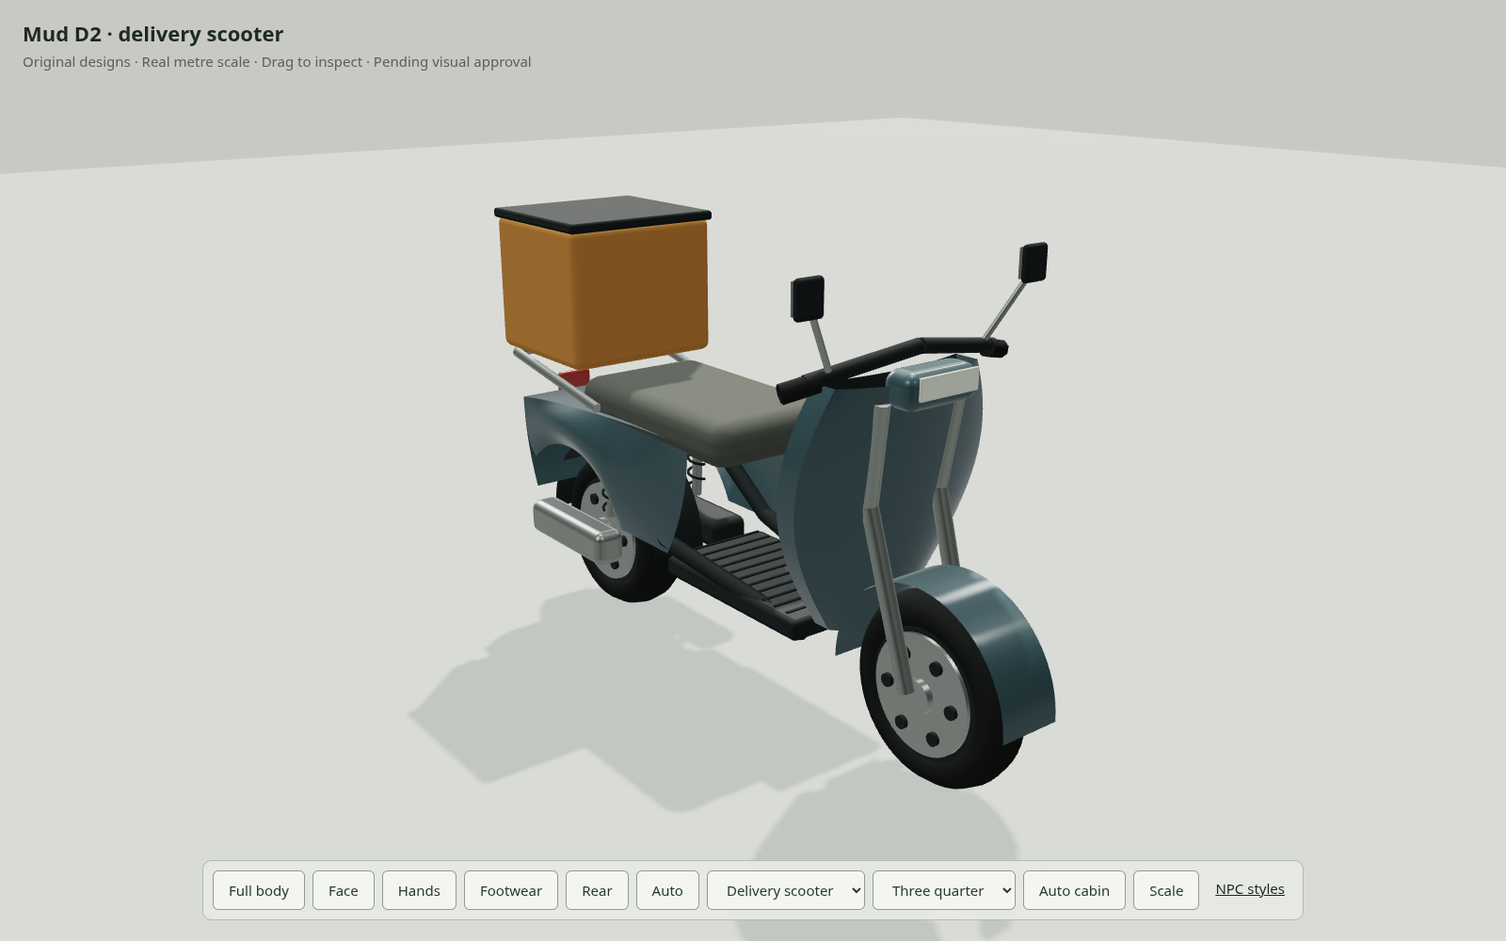
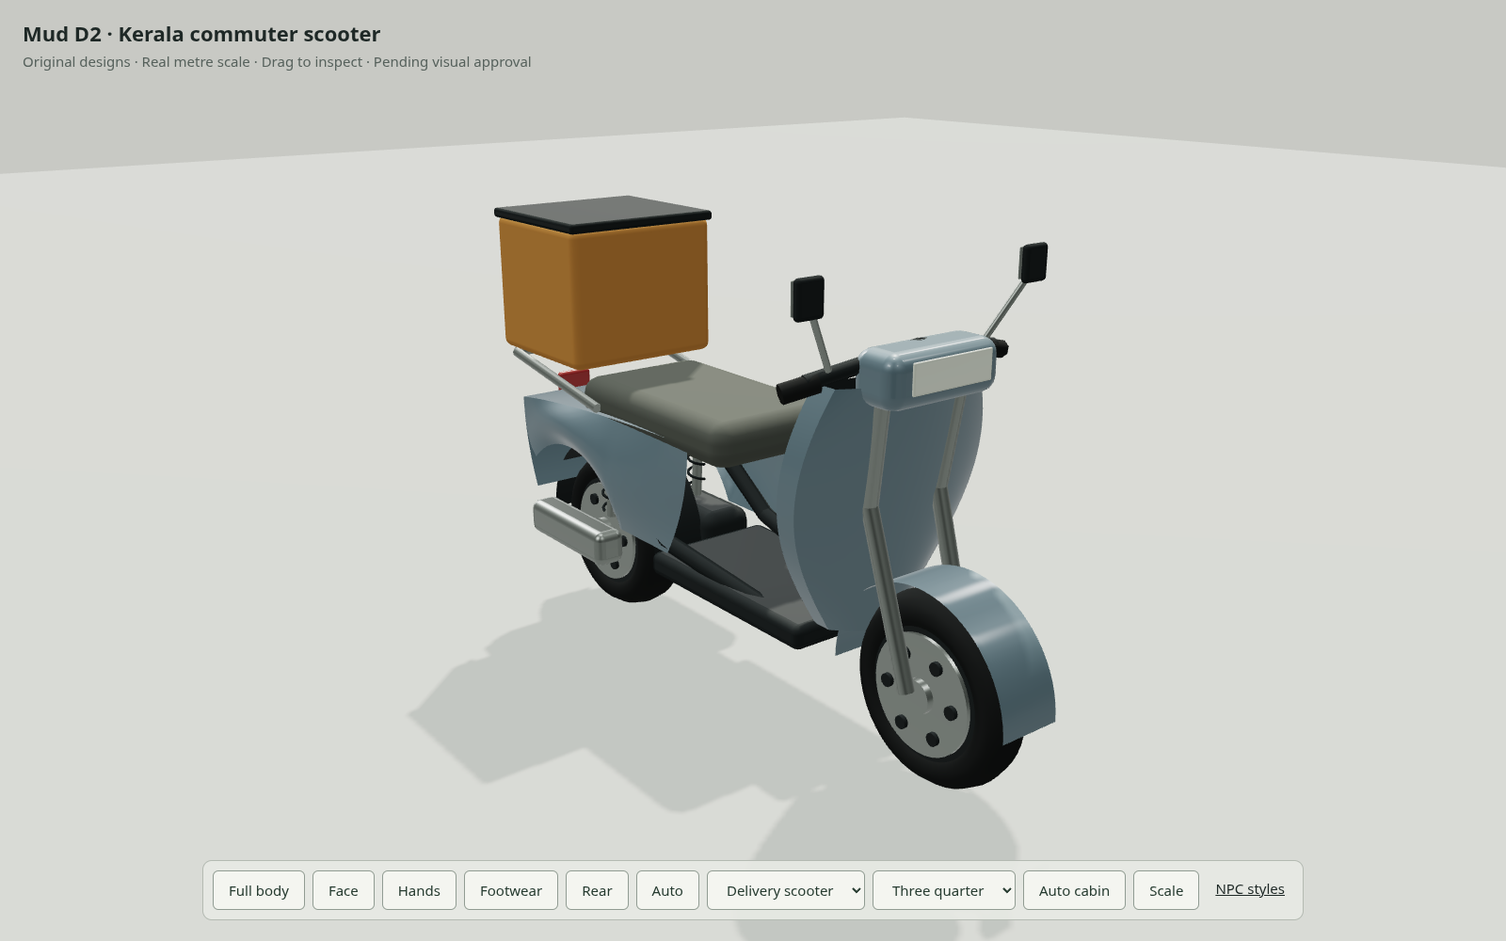
Adapt review fleet to Kerala hatchback van bus auto and scooter types

Changed region(s): [[0.3438, 0.341, 0.7188, 0.806], [0.0938, 0.031, 0.25, 0.062]]

diff --git a/src/prototypes/vehicles.js b/src/prototypes/vehicles.js
@@ -8,7 +8,7 @@ function kit(name,color){
  const trim=new THREE.MeshStandardMaterial({color:'#252c2c',roughness:.72,metalness:.15});
  const rubber=new THREE.MeshStandardMaterial({color:'#202322',roughness:.94});
  const alloy=new THREE.MeshStandardMaterial({color:'#9ba29c',roughness:.28,metalness:.85});
- const glass=new THREE.MeshPhysicalMaterial({color:'#718982',roughness:.07,metalness:0,transparent:true,opacity:.28,depthWrite:false,side:THREE.DoubleSide,envMapIntensity:1.3});
+ const glass=new THREE.MeshPhysicalMaterial({color:'#718982',roughness:.07,metalness:0,transparent:true,opacity:.43,depthWrite:false,side:THREE.DoubleSide,envMapIntensity:1.3});
  const seat=new THREE.MeshStandardMaterial({color:'#535750',roughness:.93});seat.userData.surface='cloth';
  const red=new THREE.MeshPhysicalMaterial({color:'#9b3028',roughness:.23,clearcoat:.6});
  const lamp=new THREE.MeshPhysicalMaterial({color:'#d3dacb',roughness:.18,metalness:.25,clearcoat:.6});
@@ -33,73 +33,83 @@ function kit(name,color){
   return axle;
  }
  function cushion(x,y,z,w=.43){box(w,.12,.43,.035,seat,[x,y,z]);box(w,.48,.09,.035,seat,[x,y+.27,z+.17],[.10,0,0]);for(const dx of[-w*.25,w*.25])tube([[x+dx,y+.065,z-.16],[x+dx,y+.065,z+.16]],.0015,trim);}
- function badge(text,w,h,p,rotation=[0,Math.PI,0],background=null){if(typeof document==='undefined')return;const c=document.createElement('canvas');c.width=1024;c.height=256;const ctx=c.getContext('2d');if(background){ctx.fillStyle=background;ctx.fillRect(0,0,1024,256);}ctx.fillStyle=background?'#f1e9d1':'#cbd3c9';ctx.font='600 135px sans-serif';const fontSize=Math.min(135,135*900/ctx.measureText(text).width);ctx.font=`600 ${fontSize}px sans-serif`;ctx.textAlign='center';ctx.fillText(text,512,178);const map=new THREE.CanvasTexture(c);map.colorSpace=THREE.SRGBColorSpace;const m=new THREE.MeshStandardMaterial({map,transparent:true,depthWrite:false,roughness:.8});add(new THREE.PlaneGeometry(w,h),m,p,rotation).name='Original game branding';}
+ function badge(text,w,h,p,rotation=[0,Math.PI,0],background=null){if(typeof document==='undefined')return;const c=document.createElement('canvas');c.width=1024;c.height=256;const ctx=c.getContext('2d');if(background){ctx.fillStyle=background;ctx.fillRect(0,0,1024,256);}ctx.fillStyle=background?'#f1e9d1':'#29332e';ctx.font='600 135px sans-serif';const fontSize=Math.min(135,135*900/ctx.measureText(text).width);ctx.font=`600 ${fontSize}px sans-serif`;ctx.textAlign='center';ctx.fillText(text,512,178);const map=new THREE.CanvasTexture(c);map.colorSpace=THREE.SRGBColorSpace;const m=new THREE.MeshStandardMaterial({map,transparent:true,depthWrite:false,roughness:.8});add(new THREE.PlaneGeometry(w,h),m,p,rotation).name='Original game branding';}
  return {root,paint,trim,rubber,alloy,glass,seat,red,lamp,add,box,tube,surface,pane,wheel,cushion,badge};
 }
 
 function fourWheeler(type){
  const bus=type==='bus',van=type==='van';
- const k=kit(bus?'Mud M9 · local bus':van?'Mud V4 · crew van':'Mud C4 · compact car',bus?'#803c36':van?'#d8d1ba':'#496f75');
- const {root,paint,trim,rubber,alloy,glass,red,lamp,box,tube,surface,pane,wheel,cushion,badge}=k;
- const length=bus?9.70:van?4.45:4.05,width=bus?2.5:van?1.78:1.72,height=bus?3.1:van?2.03:1.5;
- const half=length/2,r=bus?.48:van?.31:.29,axles=bus?[-2.98,2.62]:van?[-1.42,1.38]:[-1.24,1.22],waist=bus?1.68:van?1.18:.84,base=bus?.49:.265;
- const bodyWidth=z=>width/2*(bus?1-.035*(Math.abs(z)/half)**8:van?1-.08*(Math.abs(z)/half)**8:1-.21*(Math.abs(z)/half)**6);
- const deckHeight=z=>bus||van?waist:z<-.77?waist-.08*((-.77-z)/(half-.77))**2:z>1.31?waist-.055*(z-1.31)/(half-1.31):waist;
+ const k=kit(bus?'Mud M9 · local bus':van?'Mud V4 · Kerala passenger van':'Mud C4 · Kerala hatchback',bus?'#d8cfac':van?'#e4e2d6':'#b4c5cb');
+ const {root,paint,trim,rubber,alloy,glass,seat,red,lamp,box,tube,surface,pane,wheel,cushion,badge}=k;
+ const length=bus?9.70:van?3.78:3.65,width=bus?2.5:van?1.60:1.62,height=bus?3.1:van?1.87:1.54;
+ const half=length/2,r=bus?.48:van?.31:.29,axles=bus?[-2.98,2.62]:van?[-1.12,1.12]:[-1.16,1.15],waist=bus?1.68:van?1.04:.91,base=bus?.49:.265;
+ const bodyWidth=z=>width/2*(bus?1-.035*(Math.abs(z)/half)**8:van?1-.08*(Math.abs(z)/half)**8:1-(z<0?.12:.06)*(Math.abs(z)/half)**6);
+ const deckHeight=z=>bus||van?waist:z<-.85?waist-.15*((-.85-z)/(half-.85))**2:z>1.20?waist+.10*(z-1.20)/(half-1.20):waist;
+ const busSkirt=new THREE.MeshPhysicalMaterial({color:'#85382f',roughness:.5,metalness:.12,side:THREE.DoubleSide});
  function archLow(z){let low=base;for(const axle of axles){const d=z-axle,clearance=r+.045;if(Math.abs(d)<clearance)low=Math.max(low,r+.015+Math.sqrt(clearance**2-d*d));}return low;}
  for(const side of[-1,1]){
-  surface(12,bus?240:120,(u,v)=>{const z=-half+u*length,low=archLow(z);return[side*(bodyWidth(z)-.05*(1-v)+.014*Math.sin(v*Math.PI)),low+(deckHeight(z)-(!bus&&!van?.025:0)-low)*v,z];},paint,(u)=>!(bus&&side===-1&&(-half+u*length)>-4.45&&(-half+u*length)<-3.65));
+  const sidePoint=(u,v)=>{const z=-half+u*length,low=archLow(z);return[side*(bodyWidth(z)-.05*(1-v)+.014*Math.sin(v*Math.PI)),low+(deckHeight(z)-(!bus&&!van?.025:0)-low)*v,z];};
+  const hasSide=u=>!(bus&&side===-1&&(-half+u*length)>-4.45&&(-half+u*length)<-3.65);
+  surface(12,bus?240:120,sidePoint,paint,(u,v)=>hasSide(u)&&(!bus||v>=.4));
+  if(bus)surface(12,240,sidePoint,busSkirt,(u,v)=>hasSide(u)&&v<.4);
   for(const z of axles){wheel(side*(width/2-.115),z,r,bus?.24:.18);const path=Array.from({length:29},(_,i)=>{const a=i/28*Math.PI;return[side*(bodyWidth(z)+.006),r+.015+(r+.045)*Math.sin(a),z+(r+.045)*Math.cos(a)];});tube(path,.010,bus?trim:paint);}
   tube([[side*(width/2-.04),base+.03,-half+.3],[side*(width/2-.04),base+.03,half-.3]],.023,trim);
  }
  // Formed bumper faces close only the lower body, leaving the windows genuinely open.
  for(const end of[-1,1]){
-  surface(12,40,(u,v)=>{const t=u*2-1;return[t*(bodyWidth(half)-.05*(1-v)+.014*Math.sin(v*Math.PI)),base+v*(deckHeight(end*half)-(!bus&&!van?.025*t*t:0)-base),end*half];},paint);
+  const endPoint=(u,v)=>{const t=u*2-1;return[t*(bodyWidth(half)-.05*(1-v)+.014*Math.sin(v*Math.PI)),base+v*(deckHeight(end*half)-(!bus&&!van?.025*t*t:0)-base),end*half];};
+  surface(12,40,endPoint,paint,(_,v)=>!bus||v>=.4);
+  if(bus)surface(12,40,endPoint,busSkirt,(_,v)=>v<.4);
   box(width*.88,.085,.06,.025,trim,[0,base+.12,end*(half+.014)]);
  }
  box(width*.87,.05,length-.35,.012,trim,[0,base+.03,0]);
  if(!bus&&!van){
-  // A lofted bonnet, separate roof and cut glazing avoid an opaque blob behind the glass.
-  surface(18,40,(u,v)=>{const z=-half+v*(half-.77),t=u*2-1;return[t*bodyWidth(z),waist-.025*t*t-.08*(1-v)**2,z];},paint);
-  surface(16,40,(u,v)=>{const z=1.31+v*(half-1.31),t=u*2-1;return[t*bodyWidth(z),waist-.025*t*t-.055*v,z];},paint);
-  surface(22,40,(u,v)=>{const t=u*2-1,z=-.26+v*1.10;return[t*.66,1.40+.10*(1-t*t)-.012*Math.sin(v*Math.PI),z];},paint);
-  surface(16,40,(u,v)=>{const t=u*2-1;return[t*(.797-v*.14),.85+v*(.65-.10*t*t)-.025*(1-v)*t*t,-.77+v*.51+.022*t*t];},glass);
-  surface(16,40,(u,v)=>{const t=u*2-1;return[t*(.789-v*.13),.85+v*(.65-.10*t*t)-.025*(1-v)*t*t,1.31-v*.47-.014*t*t];},glass);
-  for(const z of[-.26,.84])tube(Array.from({length:25},(_,i)=>{const t=i/12-1;return[t*.66,1.40+.10*(1-t*t),z];}),.014,paint);
+  // Short bonnet and an upright tailgate: a small Kerala-road hatchback, not a sedan.
+  surface(20,40,(u,v)=>{const z=-half+v*(half-.85),t=u*2-1;return[t*bodyWidth(z),deckHeight(z)-.025*t*t,z];},paint);
+  const roofPoint=(u,v)=>{const t=u*2-1;return[t*.665,1.44+.10*(1-t*t)-.012*Math.sin(v*Math.PI),-.30+v*1.43];};
+  surface(24,40,roofPoint,paint);
+  surface(20,40,(u,v)=>{const t=u*2-1;return[t*(bodyWidth(-.85)*(1-v)+.665*v),.92+v*(.62-.10*t*t)-.025*(1-v)*t*t,-.85+v*.55];},glass);
+  surface(22,40,(u,v)=>{const t=u*2-1;return[t*(.665*(1-v)+bodyWidth(half)*v),1.44+.10*(1-t*t)-v*(.43+.10*(1-t*t)+.025*t*t),1.13+v*(half-1.13)];},glass);
+  for(const v of[0,1])tube(Array.from({length:25},(_,i)=>roofPoint(i/24,v)),.022,paint);
   for(const side of[-1,1]){
-   const lower=z=>[side*bodyWidth(z),.852,z],upper=z=>[side*.66,1.398,z];
-   pane([lower(-.75),lower(.28),upper(.28),upper(-.255)]);
-   pane([lower(.35),lower(1.29),upper(.832),upper(.35)]);
-   for(const points of [[lower(-.77),upper(-.26)],[lower(1.31),upper(.84)]])tube(points,.023,paint);
-   tube([lower(.315),upper(.315)],.022,trim);
-   tube([upper(-.26),upper(.84)],.018,paint);
-   for(const z of[-.77,.315,1.30])tube([[side*(bodyWidth(z)+.001),.81,z],[side*(bodyWidth(z)-.025),.32,z]],.003,trim);
-   for(const z of[.10,1.06])box(.020,.026,.12,.009,alloy,[side*(bodyWidth(z)+.012),.75,z]);
-   tube([[side*.80,1.0,-.61],[side*.93,1.0,-.62]],.015,trim);box(.15,.10,.18,.035,paint,[side*.945,1.015,-.64]);box(.008,.075,.135,.022,alloy,[side*1.024,1.016,-.625]);
-   for(const z of[-.02,.94])cushion(side*.34,.67,z,.45);
+   const lower=z=>[side*bodyWidth(z),deckHeight(z)-.023,z],upper=z=>[side*.665,1.438,z];
+   pane([lower(-.83),lower(.27),upper(.27),upper(-.295)]);
+   pane([lower(.35),lower(1.32),upper(1.08),upper(.35)]);
+   tube([lower(-.85),upper(-.30)],.031,paint);tube([lower(.31),upper(.31)],.030,trim);
+   tube([upper(-.30),upper(1.13)],.026,paint);
+   surface(20,8,(u,v)=>{const z=(1-v)*(1.08+.05*u)+v*(1.32+(half-1.32)*u);return[side*(.665*(1-v)+bodyWidth(z)*v),1.438*(1-v)+(deckHeight(z)-.023)*v,z];},paint);
+   for(const z of[-.85,.31,1.34])tube([[side*(bodyWidth(z)+.001),deckHeight(z)-.025,z],[side*(bodyWidth(z)-.025),.32,z]],.0025,trim);
+   for(const z of[.10,1.09])box(.020,.029,.11,.009,trim,[side*(bodyWidth(z)+.012),.83,z]);
+   tube([[side*.79,1.04,-.70],[side*.91,1.04,-.70]],.014,trim);box(.15,.095,.15,.032,paint,[side*.94,1.055,-.72]);box(.008,.066,.11,.020,alloy,[side*1.018,1.055,-.704]);
+   for(const z of[.10,.97]){cushion(side*.32,.65,z,.43);box(.28,.12,.06,.025,seat,[side*.32,1.23,z+.21]);}
+   tube([[side*(bodyWidth(-.90)+.005),.55,-.90],[side*(bodyWidth(.3)+.005),.55,.30],[side*(bodyWidth(1.47)+.005),.55,1.47]],.010,trim);
   }
-  box(1.31,.15,.24,.035,trim,[0,.90,-.54]);
-  const steering=k.add(new THREE.TorusGeometry(.13,.015,8,40),trim,[.35,.99,-.42],[.72,0,0]);steering.name='Right hand drive steering';
-  for(const side of[-1,1]){box(.32,.07,.022,.025,trim,[side*.52,.735,-half-.006],[0,-side*.24,0]);box(.27,.046,.015,.019,lamp,[side*.52,.736,-half-.022],[0,-side*.24,0]);box(.14,.18,.022,.024,red,[side*.66,.705,half-.016]);}
-  for(const y of[.45,.50,.55])box(.66,.012,.026,.003,trim,[0,y,-half-.012]);
-  badge('MUD / C4',.23,.057,[0,.65,-half-.014]);
+  box(1.26,.14,.24,.035,trim,[0,.95,-.66]);
+  k.add(new THREE.TorusGeometry(.13,.015,8,40),trim,[.34,1.035,-.51],[.72,0,0]);
+  for(const side of[-1,1]){box(.30,.15,.035,.042,trim,[side*.53,.665,-half-.010],[0,-side*.15,0]);box(.24,.105,.017,.031,lamp,[side*.53,.674,-half-.029],[0,-side*.15,0]);box(.13,.32,.024,.029,red,[side*.69,.92,half+.008]);}
+  box(.82,.12,.03,.026,trim,[0,.38,-half-.014]);for(const y of[.36,.40])box(.68,.007,.006,.001,alloy,[0,y,-half-.032]);
+  box(.32,.075,.011,.009,lamp,[0,.55,-half-.018]);badge('MUD / C4',.24,.058,[0,.83,-half-.013]);
+  tube([[0,1.03,half+.008],[.24,1.20,half-.17]],.006,trim);
  }else{
-  const top=bus?2.97:1.94,roofHalf=bus?1.17:.83,frontTop=bus?-half+.15:-1.75,frontBottom=bus?-half:-2.02;
-  const roofPaint=bus?new THREE.MeshStandardMaterial({color:'#ded3b9',roughness:.6,side:THREE.DoubleSide}):paint;
+  const top=bus?2.97:1.79,roofHalf=bus?1.17:.735,frontTop=bus?-half+.15:-1.53,frontBottom=bus?-half:-1.76;
+  const roofPaint=bus?busSkirt:paint;const windowTop=bus?2.72:1.64;
   surface(bus?60:32,40,(u,v)=>{const t=u*2-1,z=frontTop+v*(half-.06-frontTop);return[t*roofHalf,top+(height-top)*(1-t*t),z];},roofPaint);
-  surface(24,44,(u,v)=>{const t=u*2-1;return[t*((bodyWidth(frontBottom)-.006)*(1-v)+roofHalf*v),waist+v*(top-waist+(height-top)*(1-t*t)),frontBottom+v*(frontTop-frontBottom)+.015*t*t];},glass);
+  surface(24,44,(u,v)=>{const t=u*2-1;return[t*((bodyWidth(frontBottom)-.006)*(1-v)+roofHalf*v),waist+v*(top-waist+(height-top)*(1-t*t)),frontBottom+v*(frontTop-frontBottom)+.015*t*t];},glass,(_,v)=>v<(bus?.82:.84));
+  surface(24,44,(u,v)=>{const t=u*2-1;return[t*((bodyWidth(frontBottom)-.006)*(1-v)+roofHalf*v),waist+v*(top-waist+(height-top)*(1-t*t)),frontBottom+v*(frontTop-frontBottom)+.015*t*t];},roofPaint,(_,v)=>v>=(bus?.82:.84));
   surface(20,40,(u,v)=>{const t=u*2-1;return[t*((bodyWidth(half)-.006)*(1-v)+roofHalf*v),waist+v*(top-waist+(height-top)*(1-t*t)),half-.06];},glass);
   for(const side of[-1,1]){
-   const lower=z=>[side*(bodyWidth(z)-.006),waist,z],upper=z=>[side*roofHalf,top,z];
-   tube([lower(frontBottom),upper(frontTop)],.028,roofPaint);tube([lower(half-.03),upper(half-.06)],.029,roofPaint);
+   const lower=z=>[side*(bodyWidth(z)-.006),waist,z],upper=z=>[side*roofHalf,windowTop,z];
+   tube([lower(frontBottom),[side*roofHalf,top,frontTop]],.028,roofPaint);tube([lower(half-.03),upper(half-.06)],.029,roofPaint);
    tube([upper(frontTop),upper(half-.06)],.030,roofPaint);tube([lower(frontBottom),lower(half-.03)],.030,roofPaint);
-   const count=bus?10:3,start=bus?frontTop:-1.73,end=half-.07,step=(end-start)/count;
+   surface(8,80,(u,v)=>[side*roofHalf,windowTop+v*(top-windowTop),frontTop+u*(half-.06-frontTop)],roofPaint);
+   const count=bus?10:3,start=bus?frontTop:-1.51,end=half-.07,step=(end-start)/count;
    for(let i=0;i<count;i++){const a=start+i*step+.03,b=start+(i+1)*step-.03;pane([lower(a),lower(b),upper(b),upper(a)]);if(i)tube([lower(a-.03),upper(a-.03)],.027,roofPaint);}
    for(const z of axles)tube([[side*(width/2+.007),waist-.09,z-.33],[side*(width/2+.007),waist-.09,z+.33]],.004,trim);
    // India-style right-hand driver position; mirror arms remain outside the glazing.
    tube([[side*(width/2-.04),top-.15,frontTop+.17],[side*(width/2+.18),top-.15,frontTop-.10]],.017,trim);
    box(.09,bus?.33:.22,.17,.025,trim,[side*(width/2+.20),top-.15,frontTop-.11]);
    box(.011,bus?.28:.17,.125,.016,alloy,[side*(width/2+.25),top-.15,frontTop-.10]);
-   if(van){for(const z of[-.25,1.43])tube([[side*(bodyWidth(z)+.002),.36,z],[side*(bodyWidth(z)+.002),waist,z]],.003,trim);box(.018,.035,.14,.008,trim,[side*.90,1.05,.12]);tube([[side*.896,waist-.12,.08],[side*.896,waist-.12,1.90]],.010,trim);cushion(side*.38,.86,-1.03);cushion(side*.38,.85,.28);}
+   if(van){for(const z of[-.40,1.40])tube([[side*(bodyWidth(z)+.002),.36,z],[side*(bodyWidth(z)+.002),waist,z]],.003,trim);box(.018,.035,.14,.008,trim,[side*.81,.95,-.03]);tube([[side*.807,waist-.12,-.25],[side*.807,waist-.12,1.65]],.010,trim);cushion(side*.33,.79,-.88);cushion(side*.33,.78,.35);}
   }
   for(const end of[-1,1]){
    tube(Array.from({length:25},(_,i)=>{const t=i/12-1;return[t*roofHalf,top+(height-top)*(1-t*t),end===-1?frontTop:half-.06];}),.030,roofPaint);
@@ -113,19 +123,20 @@ function fourWheeler(type){
    for(let i=0;i<3;i++)box(.53,.075,.63,.012,trim,[-1.00,.40+i*.18,-4.05]);
    for(const z of[-3.30,3.42])tube([[.08,.92,z],[.08,2.84,z]],.017,alloy);
    for(const side of[-1,1]){box(.37,.21,.032,.025,trim,[side*.80,1.19,-half-.022]);for(const dx of[-.087,.087])box(.13,.09,.014,.014,lamp,[side*.80+dx,1.22,-half-.048]);box(.19,.27,.028,.025,red,[side*.98,1.18,half+.01]);}
-   box(1.46,.24,.03,.020,trim,[0,2.78,-half+.101]);badge('MARKET / CANAL',1.31,.15,[0,2.78,-half+.08]);
-   badge('MUD TRANSIT',1.16,.18,[0,1.46,-half-.008]);
-   for(const side of[-1,1])badge('MUD TRANSIT',2.05,.27,[side*(width/2+.02),1.38,.1],[0,side*Math.PI/2,0]);
+   box(1.46,.24,.03,.020,trim,[0,2.91,-half+.101]);badge('കൊച്ചി • ആലുവ',1.31,.15,[0,2.91,-half+.08],[0,Math.PI,0],'#192822');
+   badge('MUD LOCAL',1.16,.18,[0,1.46,-half-.008]);
+   for(const side of[-1,1])badge('മഡ് • ലോക്കൽ',2.05,.27,[side*(width/2+.02),1.38,.1],[0,side*Math.PI/2,0]);
    for(let i=0;i<9;i++)box(.70,.02,.012,.003,trim,[0,.93+i*.033,half+.028]);
   }else{
    // Small bonnet, cargo floor and twin rear doors distinguish it from the compact car.
-   surface(8,32,(u,v)=>{const z=-half+v*(half-2.02),t=u*2-1;return[t*bodyWidth(z),waist-.025*t*t,z];},paint);
-   box(1.55,.065,3.48,.012,trim,[0,.59,.30]);box(.48,.31,.46,.025,trim,[.43,.77,1.44]);
-   for(const side of[-1,1]){box(.22,.17,.023,.021,trim,[side*.61,1.005,-half-.01]);box(.16,.10,.014,.020,lamp,[side*.61,1.01,-half-.028]);box(.12,.35,.025,.024,red,[side*.73,1.14,half+.008]);}
+   surface(8,32,(u,v)=>{const z=-half+v*(half-1.76),t=u*2-1;return[t*bodyWidth(z),waist-.025*t*t,z];},paint);
+   box(1.40,.065,3.10,.012,trim,[0,.59,.30]);box(.48,.31,.46,.025,trim,[.36,.77,1.38]);
+   for(const side of[-1,1]){box(.22,.17,.023,.021,trim,[side*.52,.87,-half-.01]);box(.16,.10,.014,.020,lamp,[side*.52,.875,-half-.028]);box(.12,.35,.025,.024,red,[side*.64,.96,half+.008]);}
    tube([[0,.35,half+.012],[0,waist,half+.012]],.005,trim);box(.42,.08,.021,.012,trim,[0,.68,half+.022]);
-   badge('MUD / V4',.31,.066,[0,.95,-half-.016]);
+   for(const y of[.56,.60,.64,.68])box(.58,.012,.023,.003,trim,[0,y,-half-.015]);
+   badge('MUD / V4',.31,.066,[0,.81,-half-.016]);
   }
-  box(van?1.55:2.13,.14,.24,.022,trim,[0,waist+.14,frontBottom+.28]);
+  box(van?1.35:2.13,.14,.24,.022,trim,[0,waist+.14,frontBottom+.28]);
   k.add(new THREE.TorusGeometry(bus?.20:.15,.018,8,40),trim,[bus?.66:.38,waist+.35,frontBottom+.49],[.74,0,0]);
   for(const side of[-1,1])tube([[side*.40,waist+.12,frontBottom-.018],[side*.22,waist+.61,frontBottom+(frontTop-frontBottom)*.32-.024]],.008,trim);
  }
@@ -134,7 +145,7 @@ function fourWheeler(type){
 }
 
 function deliveryBike(){
- const k=kit('Mud D2 · delivery scooter','#40595d'),{root,paint,trim,alloy,rubber,seat,red,lamp,box,tube,surface,wheel,badge}=k;
+ const k=kit('Mud D2 · Kerala commuter scooter','#697e85'),{root,paint,trim,alloy,rubber,seat,red,lamp,box,tube,surface,wheel,badge}=k;
  const r=.24;wheel(0,-.71,r,.11);wheel(0,.63,r,.13);
  for(const side of[-1,1]){
   tube([[side*.10,.27,-.70],[side*.11,.69,-.57],[side*.12,.94,-.61]],.021,alloy);
@@ -148,15 +159,15 @@ function deliveryBike(){
  for(const side of[-1,1])surface(28,4,(u,v)=>[side*(.12+.17*Math.sin(v*Math.PI*.8)),.34+v*.64,(-.52-.12*v+.07)*(1-u)+(-.43-.10*v+.03)*u],paint);
  surface(24,24,(u,v)=>[(u*2-1)*(.19+.025*Math.sin(v*Math.PI)),.72-.08*v*v-.025*(1-v)**2,.03+v*.86],paint);
  surface(12,20,(u,v)=>[(u*2-1)*.19,.37+v*.27,.89-.06*(1-v)**2],paint);
- box(.33,.055,.55,.015,trim,[0,.315,-.10]);for(let z=-.32;z<.16;z+=.048)box(.29,.004,.009,.001,rubber,[0,.345,z]);
+ box(.38,.065,.63,.022,trim,[0,.315,-.10]);for(let z=-.32;z<.16;z+=.048)box(.29,.004,.009,.001,rubber,[0,.345,z]);
  // Saddle and its under-seat shell have separate, anatomically useful seat height.
  box(.40,.12,.67,.05,seat,[0,.718,.215]);
  tube([[-.29,1.00,-.55],[0,1.05,-.60],[.29,1.00,-.55]],.019,trim);
  for(const side of[-1,1]){tube([[side*.26,1.0,-.56],[side*.34,.98,-.53]],.023,rubber);tube([[side*.24,1.025,-.57],[side*.34,1.19,-.62]],.008,alloy);box(.075,.09,.021,.024,trim,[side*.34,1.20,-.62]);box(.065,.075,.005,.020,alloy,[side*.34,1.20,-.603]);}
- box(.22,.09,.10,.033,paint,[0,.97,-.64]);box(.18,.055,.008,.017,lamp,[0,.982,-.695]);box(.11,.08,.022,.012,red,[0,.65,.911]);
+ box(.34,.13,.14,.04,paint,[0,1.00,-.625]);box(.24,.075,.008,.027,lamp,[0,1.012,-.704]);box(.11,.08,.022,.012,red,[0,.65,.911]);
  surface(10,36,(u,v)=>{const a=u*Math.PI;return[(v-.5)*.17,.255+.273*Math.sin(a),-.71+.273*Math.cos(a)];},paint).material.side=THREE.DoubleSide;
  surface(10,36,(u,v)=>{const a=u*Math.PI;return[(v-.5)*.17,.255+.280*Math.sin(a),.63+.280*Math.cos(a)];},trim).material.side=THREE.DoubleSide;
- box(.12,.09,.37,.026,trim,[-.18,.275,.52]);box(.09,.10,.39,.025,alloy,[.20,.30,.59]);
+ box(.16,.13,.42,.043,trim,[-.16,.29,.52]);box(.09,.10,.39,.025,alloy,[.20,.30,.59]);
  tube([[-.21,.71,.43],[-.22,.79,.86],[.22,.79,.86],[.21,.71,.43]],.014,alloy);
  const cargo=new THREE.MeshStandardMaterial({color:'#aa7938',roughness:.90});cargo.userData.surface='cloth';box(.46,.39,.43,.024,cargo,[0,.995,.71]);box(.47,.027,.44,.009,trim,[0,1.195,.71]);
  for(const side of[-1,1])box(.015,.36,.017,.003,trim,[side*.16,.995,.928]);badge('MUD MEALS',.35,.10,[0,1.01,.932],[0,0,0]);

diff --git a/src/prototypes/auto.js b/src/prototypes/auto.js
@@ -3,7 +3,7 @@ import { RoundedBoxGeometry } from 'three/addons/geometries/RoundedBoxGeometry.j
 
 // Original project-authored geometry and canvas badge; no manufacturer meshes, logos or photos.
 export function buildAuto(){
- const root=new THREE.Group();root.name='Mud C3 · original utility autorickshaw';
+ const root=new THREE.Group();root.name='Mud C3 · Kerala autorickshaw';
  const paint=new THREE.MeshPhysicalMaterial({color:'#d5a62c',metalness:.22,roughness:.42,clearcoat:.32,clearcoatRoughness:.3});
  const frame=new THREE.MeshStandardMaterial({color:'#272a28',metalness:.5,roughness:.44}),rubber=new THREE.MeshStandardMaterial({color:'#191b1a',roughness:.97}),chrome=new THREE.MeshStandardMaterial({color:'#9b9c93',metalness:.9,roughness:.3}),cloth=new THREE.MeshStandardMaterial({color:'#242521',roughness:.98,side:THREE.DoubleSide}),seat=new THREE.MeshStandardMaterial({color:'#322c25',roughness:.87});
  cloth.userData.surface='cloth';seat.userData.surface='cloth';paint.userData.surface='paint';
@@ -108,5 +108,6 @@ for(const side of[-1,1])tube([[side*.08,.26,-1.025],[side*.08,.58,-.98]],.012,ch
   const badge=add(new THREE.PlaneGeometry(.26,.065),new THREE.MeshStandardMaterial({map:texture,transparent:true,depthWrite:false,roughness:.8}),[0,.938,nose(.938)-.003],[0,Math.PI,0]);badge.name='Original Mud C3 badge';
  }
 
+ const bodyBlack=paint.clone();bodyBlack.color.set('#262b29');root.traverse(o=>{if(!o.isMesh||o.material!==paint)return;o.geometry.computeBoundingBox();if(o.geometry.boundingBox.getCenter(new THREE.Vector3()).z+o.position.z>-.35)o.material=bodyBlack;});
  root.userData={assetType:'autorickshaw-prototype',reviewOnly:true,design:'Original Mud C3; generic three-wheeler construction, no manufacturer assets or badges',dimensions:{length:2.635,width:1.30,height:1.70},wheelCount:3};return root;
 }

diff --git a/docs/prototype-review.md b/docs/prototype-review.md
@@ -39,3 +39,18 @@ These models are project-authored indexed surfaces, glazing, structural members 
 Body design dimensions (length × width × height in metres): car 4.05 × 1.72 × 1.50; van 4.45 × 1.78 × 2.03; bus 9.70 × 2.50 × 3.10; scooter approximately 2.00 × 0.75 × 1.25. Mirrors and lamp fixtures extend beyond body dimensions. Interiors include seats, right-hand steering, dashboard and van cargo space; the bus has passenger seating, handrails and a front passenger door with steps. The scooter has a separate saddle, footboard, fork, suspension, exhaust and delivery cargo box.
 
 Actual browser iteration corrected window gasket overshoot, body/endcap discontinuities, roof/glazing gaps, shadow banding, saddle overlap and clipped destination lettering. Geometry checks verify finite vertices, ground clearance, height, wheel count and a per-model geometry budget. Hardware Chromium captures all four models from multiple angles plus the 900 × 500 landscape layout and tests the vehicle/angle controls. These establish rendering and interface behavior, not visual approval or physical mobile performance. No fleet replacement is made in the game during this review phase.
+
+## Kerala vehicle direction
+
+The generic sedan and large crew van were revised following the user's request for vehicles seen in Kerala. The C4 now uses a short-bonnet, five-door hatchback layout with an upright tailgate, rear wiper and broad rear quarter pillars. Its body dimensions are 3.65 × 1.62 × 1.54 m. The V4 is a compact sliding-door passenger van, 3.78 × 1.60 × 1.87 m, with a shorter wheelbase and smaller window openings. These supersede the earlier car/van dimensions above.
+
+The M9 now has red-and-cream ordinary-service proportions, a solid header above the passenger windows, Malayalam Kochi–Aluva route lettering and fictional Mud Local branding. The C3 has a black rear body and yellow nose below its black canopy. The D2 uses a broader handlebar headlamp cowl, fuller engine cover and footboard appropriate to a commuter scooter adapted for deliveries. Manufacturer badges and existing operator names are absent.
+
+Reference pages used for vehicle classes and construction cues (photographs and manufacturer assets are not bundled in the project):
+
+- [Maruti Suzuki Alto K10](https://www.marutisuzuki.com/arena/alto-k10), compact Indian hatchback packaging.
+- [Maruti Suzuki Eeco](https://www.marutisuzuki.com/arena/eeco), compact passenger van packaging.
+- [KSRTC ordinary-service bus photograph](https://commons.wikimedia.org/wiki/File:KSRTC_Ordinary_Service_Bus.jpg), by Outlander07, CC BY-SA 3.0; reviewed for local bus proportions and palette.
+- [Alappuzha–Erattakulangara private bus photograph](https://commons.wikimedia.org/wiki/File:Alappuzha_-_Erattakulangara_bus_-_Aradhana.jpg), reviewed for regional window/route-board construction.
+
+The resulting meshes are original stylized prototypes, not exact commercial model replicas. This revision does not establish reference-level polish or visual acceptance. The game still retains its prior fleet until the revised models are approved, as required by the user's workflow. Verified geometry, production build, Chromium views and landscape controls; physical mobile performance remains unmeasured.
